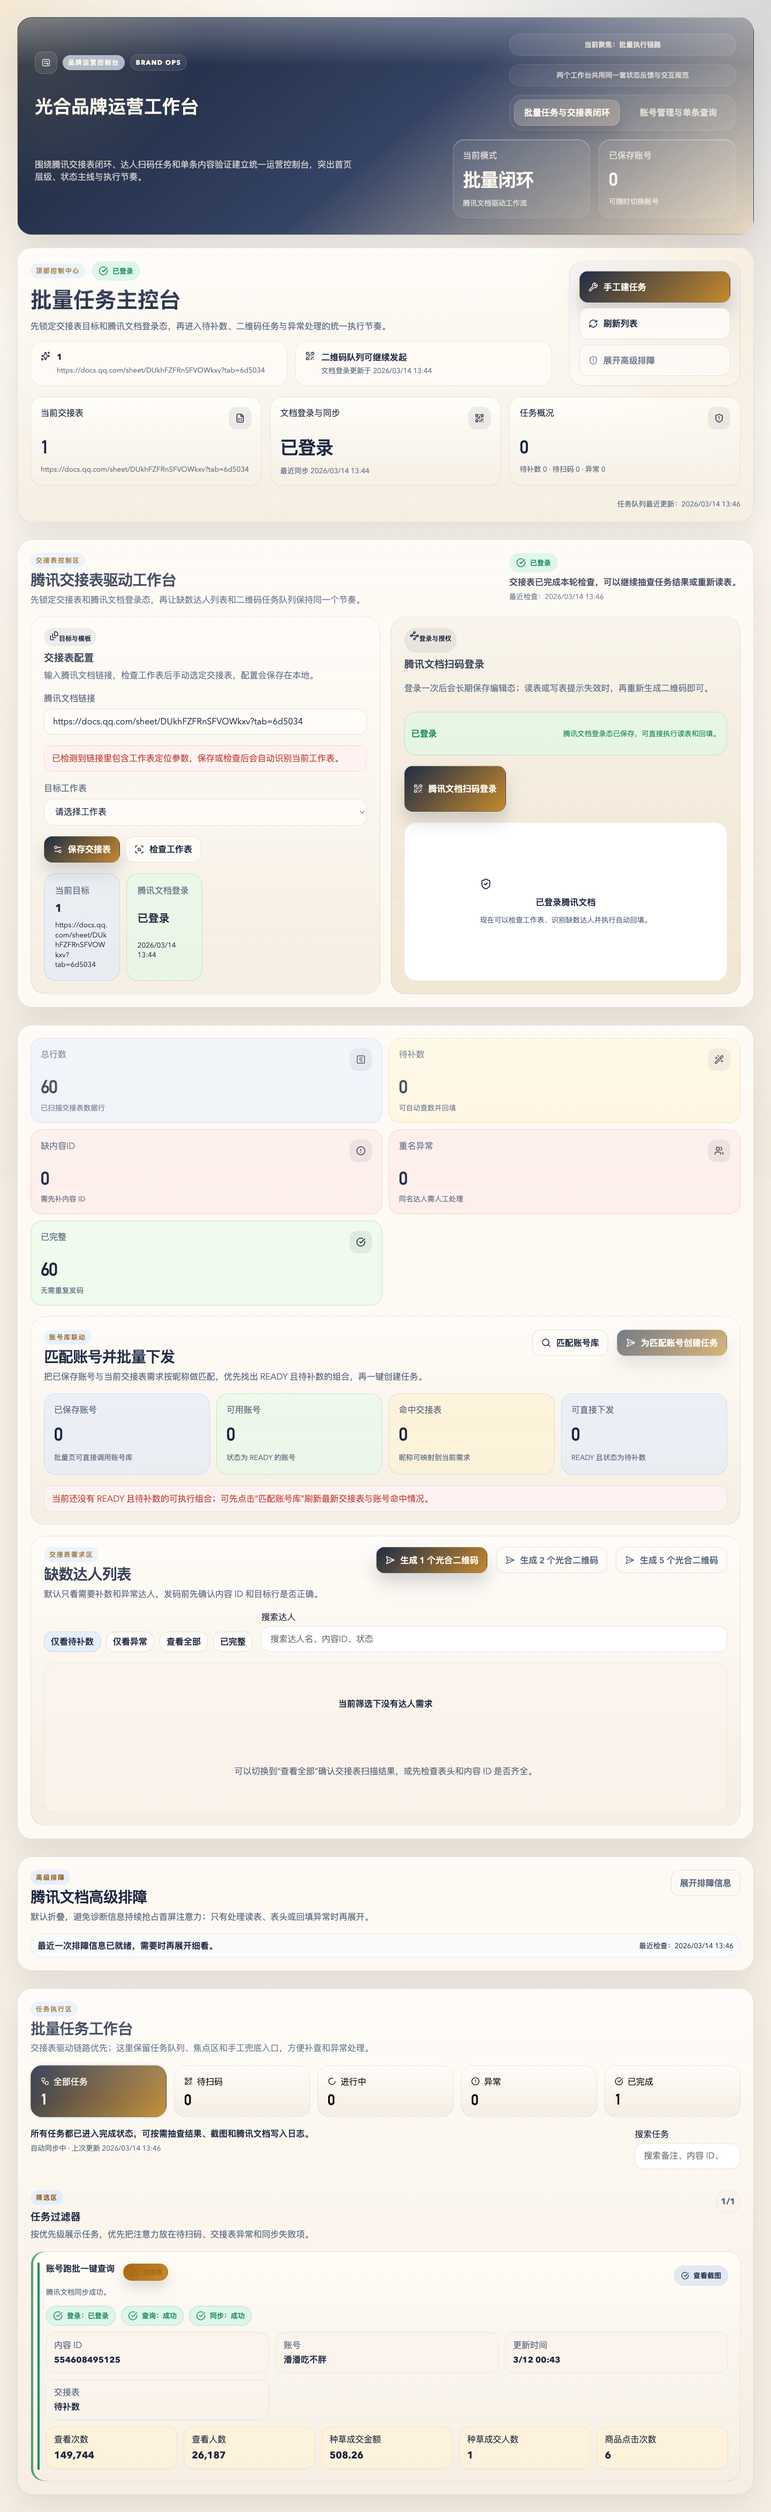
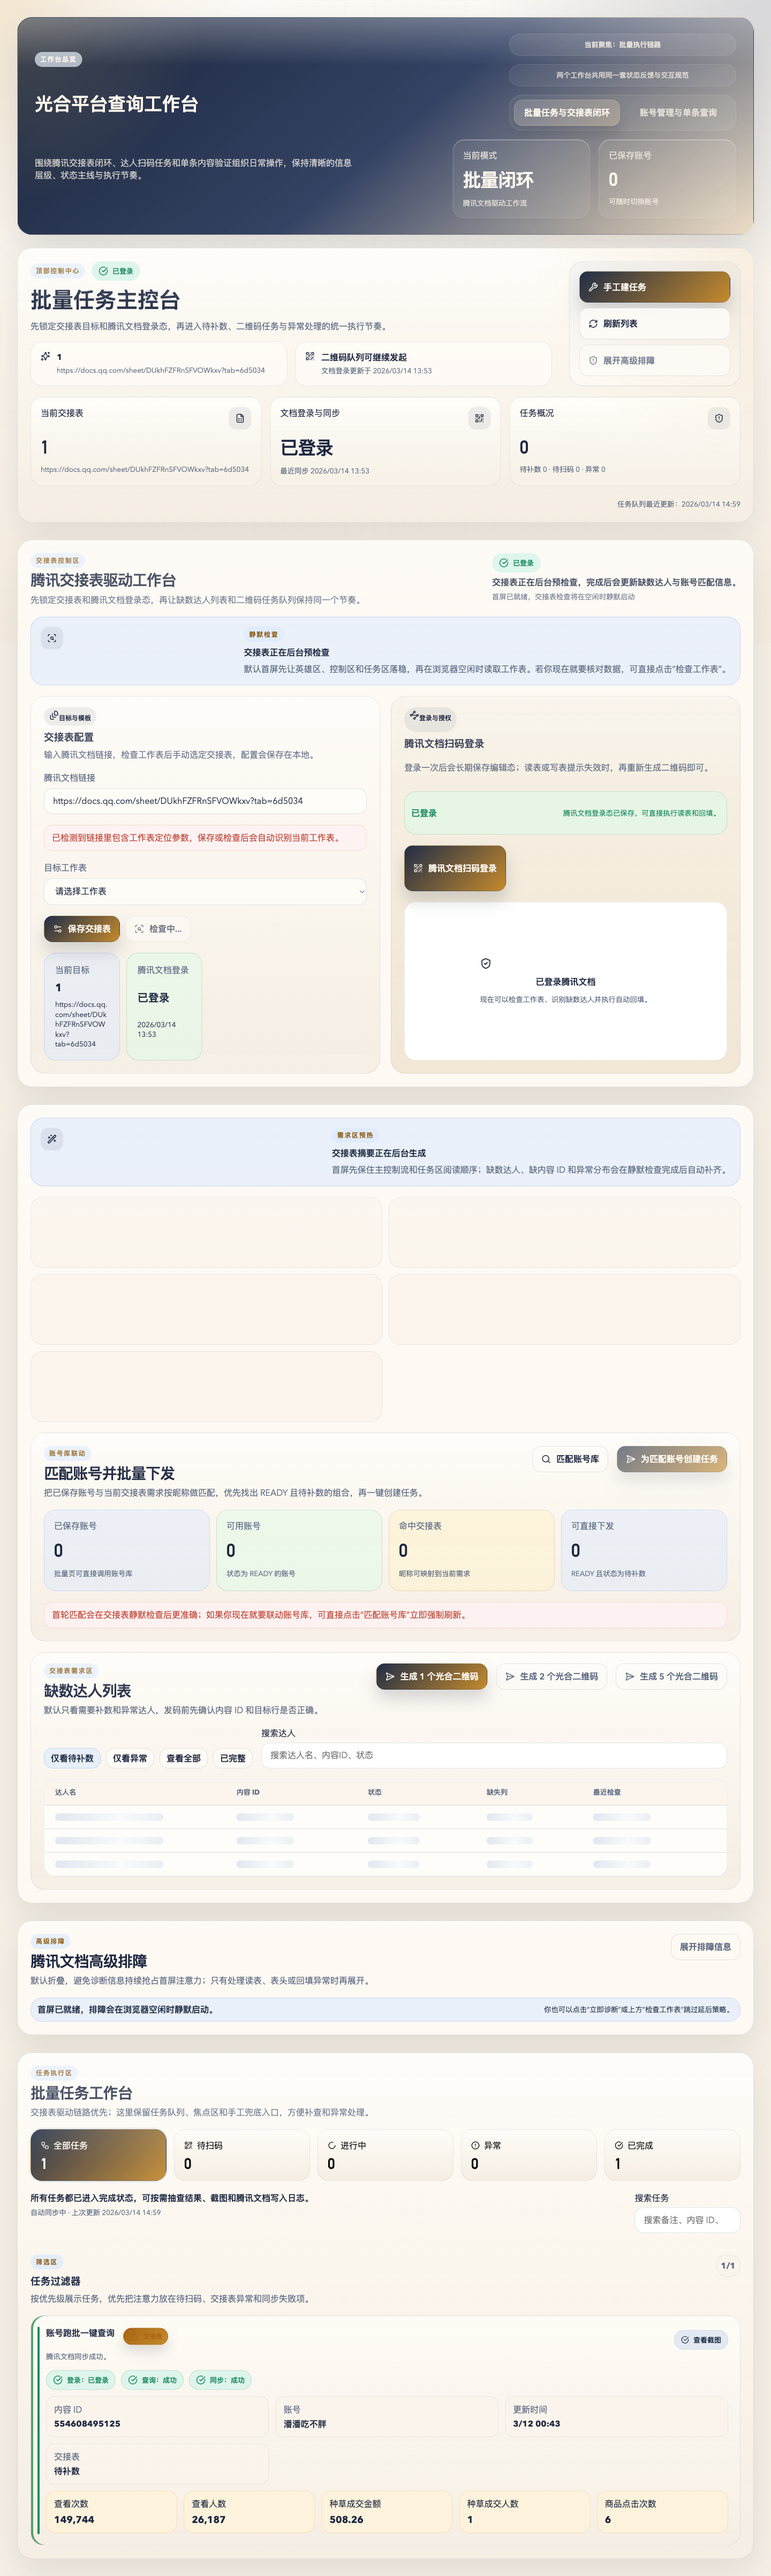
去掉品牌

diff --git a/web/src/styles/components.css b/web/src/styles/components.css
@@ -2569,7 +2569,7 @@
 .manual-entry-kicker,
 .result-panel-kicker,
 .login-stage-kicker,
-.page-header-brandline {
+.page-header-kicker {
   display: inline-flex;
   align-items: center;
   gap: 10px;
@@ -2630,8 +2630,6 @@
 }
 
 .ui-stat-card-icon-wrap,
-.page-header-brand-mark,
-.login-drawer-brandmark,
 .ui-empty-state-icon-wrap,
 .ui-inline-notice-icon-wrap {
   display: grid;
@@ -2743,7 +2741,6 @@
 .page-header h1,
 .page-header h2,
 .page-header strong,
-.page-header .page-header-badge,
 .page-header .section-eyebrow {
   color: var(--text-inverse);
 }
@@ -2762,37 +2759,8 @@
   align-items: stretch;
 }
 
-.page-header-brand-copy {
-  display: inline-flex;
-  align-items: center;
-  gap: 10px;
-  flex-wrap: wrap;
-}
-
-.page-header-brand-mark,
-.login-drawer-brandmark {
-  background: rgba(255, 248, 236, 0.1);
-  color: var(--text-inverse);
-  border: 1px solid rgba(255, 248, 236, 0.16);
-}
-
-.page-header-brand-mark svg,
-.login-drawer-brandmark svg {
-  width: 18px;
-  height: 18px;
-}
-
-.page-header-badge {
-  display: inline-flex;
-  align-items: center;
-  padding: 6px 10px;
-  border-radius: var(--radius-pill);
-  border: 1px solid rgba(255, 248, 236, 0.14);
-  background: rgba(255, 248, 236, 0.08);
-  font-size: 12px;
-  font-weight: 700;
-  letter-spacing: 0.12em;
-  text-transform: uppercase;
+.page-header-kicker {
+  margin-bottom: 6px;
 }
 
 .page-header-meta,
@@ -3586,11 +3554,9 @@
   overflow-y: auto;
 }
 
-.login-drawer-brandline {
+.login-drawer-kicker {
   display: inline-flex;
   align-items: center;
-  gap: 10px;
-  flex-wrap: wrap;
   margin-bottom: 8px;
 }
 

diff --git a/web/src/App.jsx b/web/src/App.jsx
@@ -2,7 +2,6 @@ import { Suspense, lazy, useEffect, useState } from 'react'
 import { api } from './api'
 import { LoginForm } from './components/LoginForm'
 import { PageHeader } from './components/ui/PageHeader'
-import { DashboardIcon } from './components/ui/ShellIcons'
 import { useAccounts } from './hooks/useAccounts'
 import { useLoginSession } from './hooks/useLoginSession'
 
@@ -120,11 +119,9 @@ export default function App() {
   return (
     <div className="workspace-page">
       <PageHeader
-        eyebrow="品牌运营控制台"
-        badge="Brand Ops"
-        icon={DashboardIcon}
-        title="光合品牌运营工作台"
-        description="围绕腾讯交接表闭环、达人扫码任务和单条内容验证建立统一运营控制台，突出首页层级、状态主线与执行节奏。"
+        eyebrow="工作台总览"
+        title="光合平台查询工作台"
+        description="围绕腾讯交接表闭环、达人扫码任务和单条内容验证组织日常操作，保持清晰的信息层级、状态主线与执行节奏。"
         actions={(
           <div className="page-header-action-cluster">
             <div className="page-header-status-strip">

diff --git a/web/src/components/LoginSessionPanel.jsx b/web/src/components/LoginSessionPanel.jsx
@@ -1,6 +1,6 @@
 import { useEffect, useId, useRef, useState } from 'react'
 import { AnimatePresence, motion, useReducedMotion } from 'motion/react'
-import { CircleCheckBig, QrCode, ShieldCheck, Smartphone, Sparkles, Waypoints, X } from 'lucide-react'
+import { CircleCheckBig, QrCode, ShieldCheck, Smartphone, Sparkles, X } from 'lucide-react'
 import { buildFallbackAvatar, formatLoginStatus } from '../lib/ui'
 import { InlineNotice } from './ui/InlineNotice'
 import { SectionCard } from './ui/SectionCard'
@@ -161,12 +161,8 @@ export function LoginSessionPanel({
         >
         <header className="login-drawer-header">
           <div className="login-drawer-title-block">
-            <div className="login-drawer-brandline">
-              <div className="login-drawer-brandmark">
-                <Waypoints size={18} aria-hidden="true" />
-              </div>
+            <div className="login-drawer-kicker">
               <span className="section-eyebrow">新增账号</span>
-              <span className="page-header-badge">Login Flow</span>
             </div>
             <div className="login-drawer-title-row">
               <h2 id={titleId}>扫码登录淘宝账号</h2>

diff --git a/web/src/components/ui/PageHeader.jsx b/web/src/components/ui/PageHeader.jsx
@@ -1,11 +1,7 @@
-import { DashboardIcon } from './ShellIcons'
-
 export function PageHeader({
   eyebrow,
   title,
   description,
-  icon: IconComponent = DashboardIcon,
-  badge = '',
   variant = 'hero',
   actions = null,
   stats = [],
@@ -16,15 +12,7 @@ export function PageHeader({
   return (
     <header className={`${classes} page-header-enter`}>
       <div className="workspace-hero-copy page-header-copy">
-        <div className="page-header-brandline">
-          <div className="page-header-brand-mark">
-            {IconComponent ? <IconComponent /> : null}
-          </div>
-          <div className="page-header-brand-copy">
-            {eyebrow ? <span className="section-eyebrow">{eyebrow}</span> : null}
-            {badge ? <span className="page-header-badge">{badge}</span> : null}
-          </div>
-        </div>
+        {eyebrow ? <div className="page-header-kicker"><span className="section-eyebrow">{eyebrow}</span></div> : null}
         <h1>{title}</h1>
         {description ? <p className="page-header-description">{description}</p> : null}
       </div>

diff --git a/tests/batchWorkspace.test.jsx b/tests/batchWorkspace.test.jsx
@@ -260,7 +260,7 @@ describe('batch task workspace ui', () => {
     expect(within(accordionItem).getByText('腾讯文档同步')).toBeInTheDocument()
   })
 
-  test('renders branded batch hero summary with core actions', async () => {
+  test('renders batch hero summary with core actions', async () => {
     api.listTasks.mockResolvedValue({ tasks: [] })
 
     render(<BatchTasksWorkspace />)

diff --git a/docs/codex-onboarding.md b/docs/codex-onboarding.md
@@ -2,7 +2,7 @@
 
 这份文档是给另一台电脑上的 Codex 用的，目标不是解释所有实现细节，而是让它能在 **10 分钟内判断项目定位、主业务链路、关键文件和推荐技能**，避免一上来走偏。
 
-> 前端 UI 重构 V1 完成记录见 `docs/frontend-ui-refactor-plan.md`。第二轮品牌化视觉升级完成记录见 `docs/frontend-ui-visual-v2-plan.md`。第三轮前端性能优化记录见 `docs/frontend-performance-v3-plan.md`。第四轮视觉收口与交互打磨完成记录见 `docs/frontend-ui-v4-plan.md`；当前如果继续做前端页面优化，优先以 V4 作为最新基线，V1/V2/V3 视为历史档案。
+> 前端 UI 重构 V1 完成记录见 `docs/frontend-ui-refactor-plan.md`。第二轮视觉升级完成记录见 `docs/frontend-ui-visual-v2-plan.md`。第三轮前端性能优化记录见 `docs/frontend-performance-v3-plan.md`。第四轮视觉收口与交互打磨完成记录见 `docs/frontend-ui-v4-plan.md`；当前如果继续做前端页面优化，优先以 V4 作为最新基线，V1/V2/V3 视为历史档案。
 
 ## 0. 先纠偏
 

diff --git a/docs/frontend-ui-v4-plan.md b/docs/frontend-ui-v4-plan.md
@@ -80,7 +80,7 @@
 
 ## Assumptions
 - V4 默认不安装新 skill；若后续要做流程化视觉审计，可另开 follow-up 引入更重的视觉测试方案。
-- 品牌方向继续沿用“暖白 + 墨蓝 + 金棕”，本轮只做减重、提层级、提可读性，不改品牌基调。
+- 当前视觉方向继续沿用现有浅色工作台体系，本轮只做减重、提层级、提可读性，不额外引入新的主题表达。
 - 这轮优先解决“页面不好看、交互一般”的前台感知问题，不顺带做性能专项或业务重排。
 
 ## Known Issues
